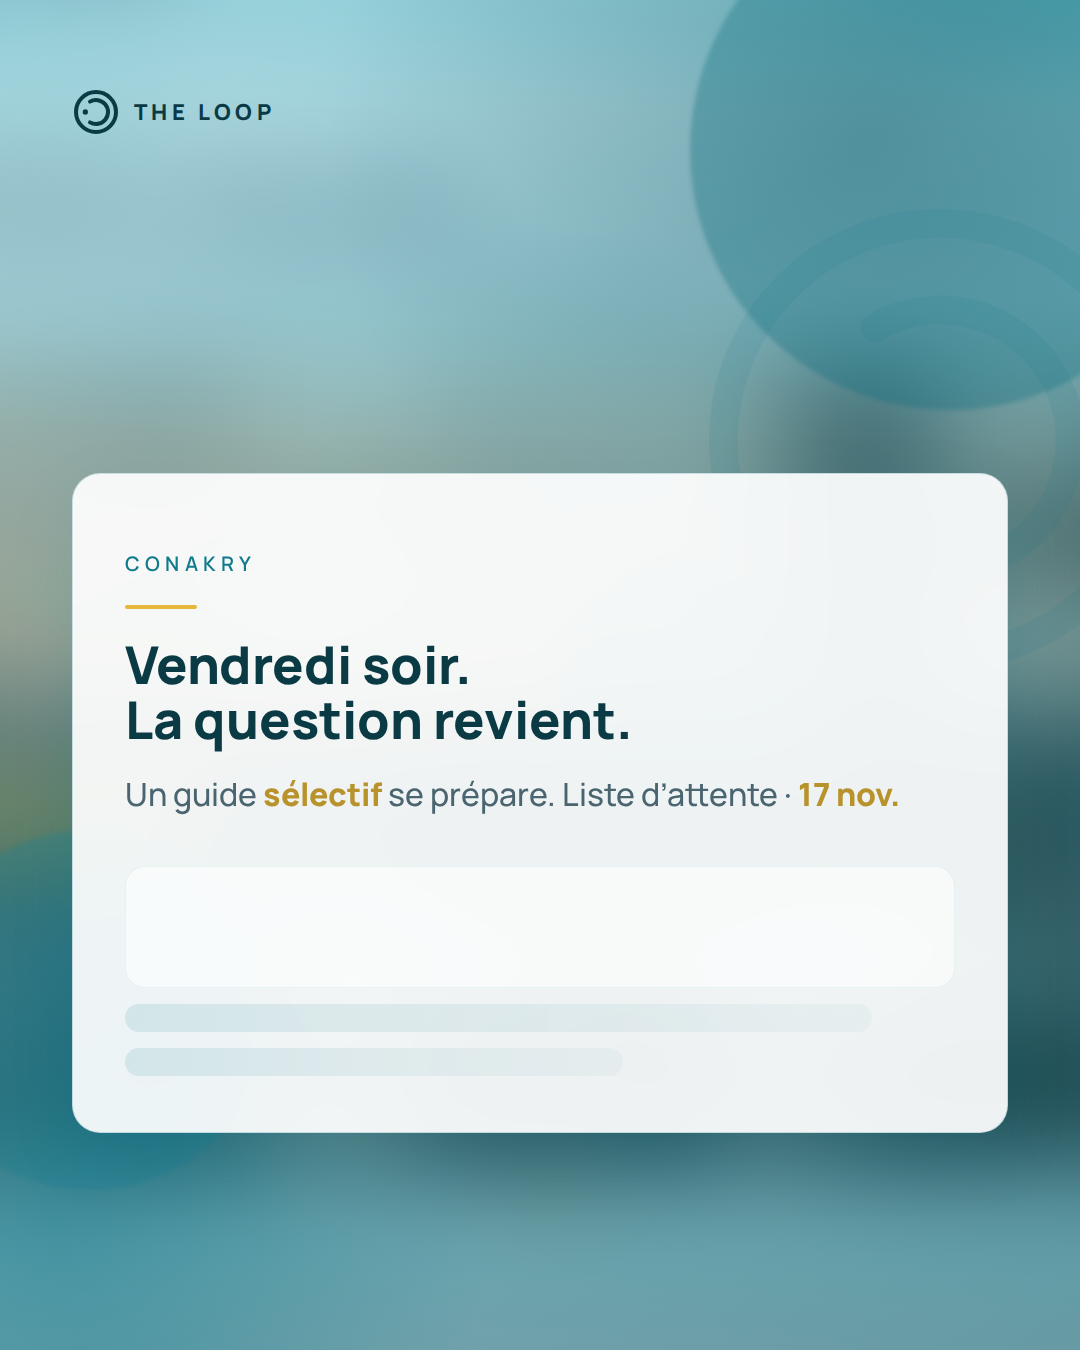
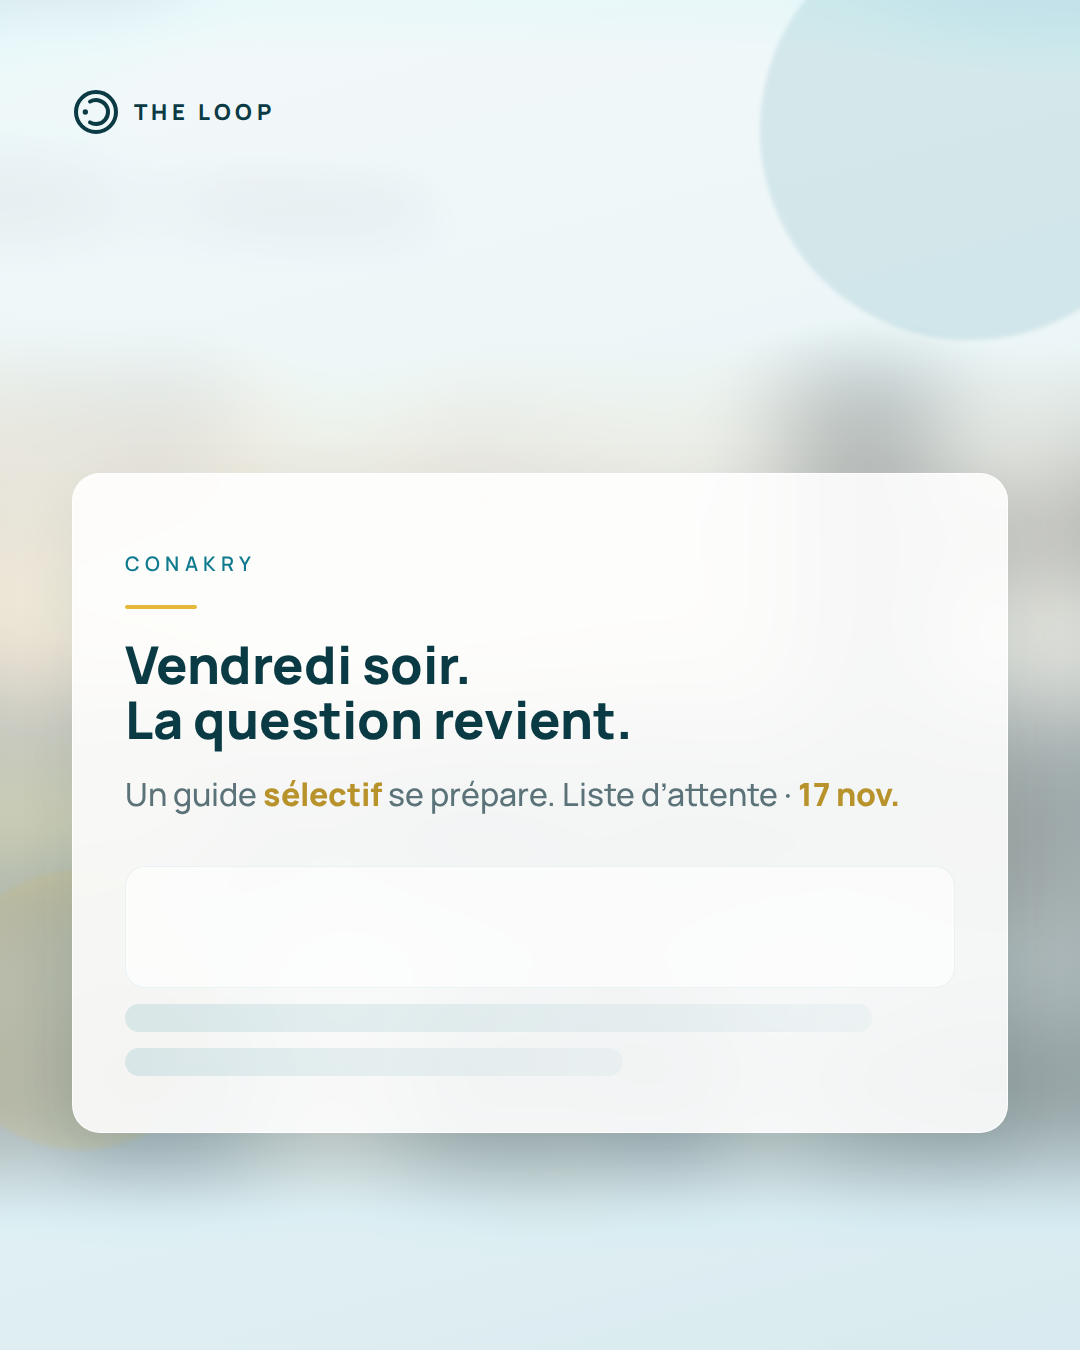
docs(com): restore fond texte v4 dégradé (baseline) pour confirmation

diff --git a/docs/communication/lancement-2026/export-visuels-pack-acte-a-v4-light.html b/docs/communication/lancement-2026/export-visuels-pack-acte-a-v4-light.html
@@ -8,13 +8,11 @@
     :root {
       --deep: #0a3a44;
       --teal: #0f7a8e;
-      --teal-mid: #1596ad;
-      --teal-light: #a8d9e4;
       --gold: #e6b93a;
-      --bg: #a8dce8;
-      --bg2: #5eb3c4;
+      --bg: #eef6f8;
+      --bg2: #dceef2;
       --card: #ffffff;
-      --muted: #4a6570;
+      --muted: #5a7278;
     }
     body { margin: 0; font-family: Manrope, sans-serif; background: #ccc; padding: 20px; }
     .label { color: #555; font-size: 11px; letter-spacing: 0.15em; text-transform: uppercase; text-align: center; margin: 28px 0 10px; }
@@ -24,7 +22,7 @@
       margin: 0 auto 16px;
       position: relative;
       overflow: hidden;
-      background: linear-gradient(145deg, var(--bg) 0%, var(--bg2) 35%, #3a9aad 68%, #0f7a8e 100%);
+      background: linear-gradient(165deg, var(--bg) 0%, var(--bg2) 55%, #c5e0e8 100%);
       color: var(--deep);
     }
     .c.reel { height: 1920px; }
@@ -33,26 +31,8 @@
       position: absolute;
       inset: -20%;
       background: url('assets/capture-accueil-2.jpg') center 20% / cover no-repeat;
-      filter: blur(52px) saturate(1.25) brightness(1.05) hue-rotate(-8deg);
-      opacity: 0.52;
-    }
-    .atmo-teal {
-      position: absolute;
-      inset: 0;
-      background: radial-gradient(ellipse 100% 80% at 80% 10%, rgba(10,58,68,0.25), transparent 50%),
-        radial-gradient(ellipse 90% 70% at 5% 90%, rgba(15,122,142,0.45), transparent 45%),
-        linear-gradient(180deg, rgba(15,122,142,0.15) 0%, rgba(10,58,68,0.28) 100%);
-      pointer-events: none;
-      z-index: 1;
-    }
-    .watermark {
-      position: absolute;
-      right: -120px;
-      top: 180px;
-      width: 520px;
-      height: 520px;
-      opacity: 0.14;
-      z-index: 1;
+      filter: blur(48px) saturate(0.85) brightness(1.15);
+      opacity: 0.35;
     }
     .blobs {
       position: absolute;
@@ -64,9 +44,8 @@
       border-radius: 50%;
       filter: blur(2px);
     }
-    .blob.a { width: 560px; height: 560px; background: rgba(10,58,68,0.22); top: -120px; right: -140px; }
-    .blob.b { width: 400px; height: 400px; background: rgba(15,122,142,0.38); bottom: 140px; left: -100px; }
-    .blob.c { width: 280px; height: 280px; background: rgba(21,150,173,0.35); top: 40%; left: 50%; }
+    .blob.a { width: 420px; height: 420px; background: rgba(15,122,142,0.12); top: -80px; right: -100px; }
+    .blob.b { width: 280px; height: 280px; background: rgba(230,185,58,0.14); bottom: 200px; left: -60px; }
     .inner {
       position: relative;
       z-index: 2;
@@ -76,12 +55,12 @@
       flex-direction: column;
     }
     .card {
-      background: rgba(255,255,255,0.94);
-      backdrop-filter: blur(16px);
+      background: rgba(255,255,255,0.88);
+      backdrop-filter: blur(12px);
       border-radius: 28px;
       padding: 56px 52px;
-      box-shadow: 0 28px 72px rgba(10,58,68,0.22);
-      border: 1px solid rgba(15,122,142,0.28);
+      box-shadow: 0 20px 60px rgba(10,58,68,0.08);
+      border: 1px solid rgba(255,255,255,0.9);
       margin-top: auto;
       margin-bottom: auto;
     }
@@ -161,9 +140,7 @@
   <div class="label">#1 — 3/11 · Feed · clair + atmosphère (sans contenu lisible)</div>
   <div class="c">
     <div class="atmo"></div>
-    <div class="atmo-teal"></div>
-    <svg class="watermark" viewBox="0 0 36 36" fill="none"><circle cx="18" cy="18" r="15" stroke="#0F7A8E" stroke-width="2"/><path d="M 13.5 10.21 A 9 9 0 1 1 13.5 25.79" stroke="#0F7A8E" stroke-width="2" stroke-linecap="round"/></svg>
-    <div class="blobs"><div class="blob a"></div><div class="blob b"></div><div class="blob c"></div></div>
+    <div class="blobs"><div class="blob a"></div><div class="blob b"></div></div>
     <div class="inner">
       <div class="mark-row">
         <svg width="48" height="48" viewBox="0 0 36 36" fill="none"><circle cx="18" cy="18" r="15" stroke="#0A3A44" stroke-width="3"/><path d="M 13.5 10.21 A 9 9 0 1 1 13.5 25.79" stroke="#0A3A44" stroke-width="3" stroke-linecap="round"/><circle cx="10" cy="18" r="2" fill="#0A3A44"/></svg>
@@ -186,8 +163,7 @@
   <div class="label">#1 · Reels 9:16</div>
   <div class="c reel">
     <div class="atmo"></div>
-    <div class="atmo-teal"></div>
-    <div class="blobs"><div class="blob a"></div><div class="blob b" style="top:120px;right:-40px"></div></div>
+    <div class="blobs"><div class="blob b" style="top:120px;right:-40px"></div></div>
     <div class="inner" style="justify-content:flex-end;padding-bottom:160px">
       <div class="card">
         <p class="ey">The Loop</p>
@@ -200,8 +176,7 @@
 
   <div class="label">#2 — 5/11 · Signature · clair</div>
   <div class="c">
-    <div class="atmo" style="background-position:center 60%"></div>
-    <div class="atmo-teal"></div>
+    <div class="atmo" style="opacity:0.25;background-position:center 60%"></div>
     <div class="inner" style="justify-content:center">
       <div class="card" style="text-align:center">
         <p class="quote">« Les bonnes adresses ne s'annoncent pas. »</p>

diff --git a/docs/communication/lancement-2026/CHARTE-FOND-TEXTE.md b/docs/communication/lancement-2026/CHARTE-FOND-TEXTE.md
@@ -5,9 +5,10 @@
 - **Posts texte** après 17/11 : J-x, citations, critères, CTA courts — **sans** capture app lisible.
 - **Pas pour** : révélation app (≥ 17/12 pré-launch, 24/12 lancement) → captures nettes.
 
-## Fichier source
-- HTML : `export-visuels-pack-acte-a-v4-light.html`
-- PNG exportés : `exports-png-v4-light/`
+## Fichier source (version validée · dégradé clair + carte)
+- HTML : `export-visuels-pack-acte-a-v4-light.html` *(baseline v4 — dégradé, atmo floue, squelettes)*
+- PNG exportés : `exports-png-v4-light/` — fichiers `01_`, `02_`, `03_`
+- **Ne pas utiliser** les PNG `COMPARAISON_NIVEAU_*` (tests écartés).
 - Regénérer : `node scripts/export-slides-png-v4.mjs`
 
 ## Recette visuelle
